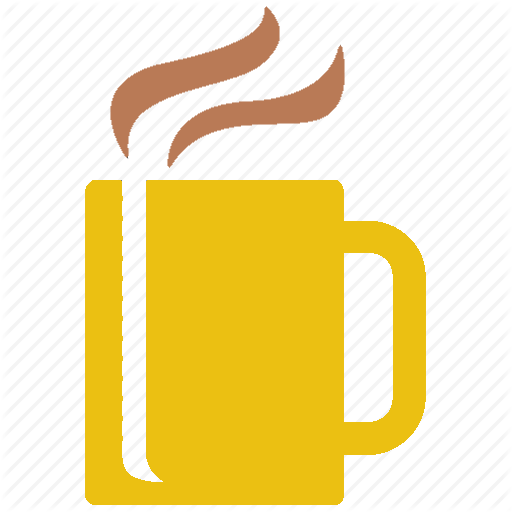
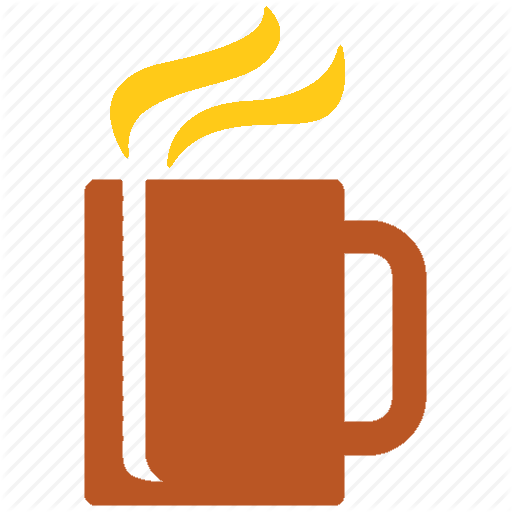
updateovane boje i font

diff --git a/index.html b/index.html
@@ -39,12 +39,12 @@
     <span></span>
     <!-- menu items -->
     <ul id="menu">
-      <li><a href="index.html" class="nav-link">почетна</a></li>
-      <li><a href="#skills" class="nav-link" >понуда</a></li>
-      <li><a href="#about" class="nav-link">о нама</a></li>
-      <li><a href="#products" class="nav-link">производи</a></li>
-      <li><a href="#services" class="nav-link">погодности</a></li>
-      <li><a href="#contact" class="nav-link">контакт</a></li>
+      <li><a href="index.html" class="nav-link">Почетна</a></li>
+      <li><a href="#skills" class="nav-link" >Понуда</a></li>
+      <li><a href="#about" class="nav-link">О нама</a></li>
+      <li><a href="#products" class="nav-link">Производи</a></li>
+      <li><a href="#services" class="nav-link">Погодности</a></li>
+      <li><a href="#contact" class="nav-link">Контакт</a></li>
       <li><img src="./images/kafeterija fri logo.jpg" alt="logo"></li>
  </ul>
  </div>
@@ -54,12 +54,12 @@
       <div class="banner">
         <h2>Преко стотину укуса</h2>
         <h1>
-          специјално 
+          Специјално 
           <br />
           справљене кафе
         </h1>
         <a href="#skills" class="btn banner-btn">
-          истражите
+          Истражите
         </a>
       </div>
     </header>
@@ -73,7 +73,7 @@
         <span class="skill-icon">
           <img src="./images/soljica.png" alt="juice_logo" class="skill_logo_fix">
         </span>
-        <h4 class="skill-title">кафе</h4>
+        <h4 class="skill-title">Кафе</h4>
         <p class="skill-text skill-2">
           Наше кафе које 100% arabica, квалитетне и имају специфичан цитрусни укус, а у понуди их имамо и за понети.
         </p>
@@ -85,7 +85,7 @@
         <span class="skill-icon">
           <img src="./images/chocolate-512.png" alt="juice_logo" class="skill_logo_fix bane-filozofira">
         </span>
-        <h4 class="skill-title">топљене чоколаде</h4>
+        <h4 class="skill-title">Топљене чоколаде</h4>
         <p class="skill-text skill-2">
           У понуди имамо црну и белу чоколаду са разним укусима, а све под покровитељством JavaCoffeeSrbija.
         </p>
@@ -97,7 +97,7 @@
         <span class="skill-icon">
           <img src="./images/tea-cup.png" alt="juice_logo" class="skill_logo_fix">
         </span>
-        <h4 class="skill-title">чајеви</h4>
+        <h4 class="skill-title">Чајеви</h4>
         <p class="skill-text">
           Биљне мешавине из наше понуде чајева ће пробудити сва ваша чула, а сваки од састојака има повољан утицај на ваш организам.
         </p>
@@ -109,7 +109,7 @@
         <span class="skill-icon">
           <img src="./images/water.png" alt="juice_logo" class="skill_logo_fix">
         </span>
-        <h4 class="skill-title">сокови</h4>
+        <h4 class="skill-title">Сокови</h4>
         <p class="skill-text">
           Код нас се могу наћи још и сокови од воћа који су  без садржаја алкохола. У целој понуди издвојили би сок са Сода водом (Fri Soda).
         </p>
@@ -159,7 +159,7 @@
           <div class="section-title products-title" id="offer">
             <!-- <h3>погледајте</h3> -->
             <!-- <h2>наше производе</h2> -->
-            <h3>издвајамо из</h3>
+            <h3>Издвајамо из</h3>
             <h2>понуде</h2>
           </div>
           <!-- end of section title -->
@@ -178,7 +178,7 @@
               alt="single product"
               class="product-img"
             />
-            <h4 class="product-title">кафе</h4>
+            <h4 class="product-title">Кафе</h4>
             <!-- <h4 class="product-price">60 РСД</h4> -->
           </div>
           <!-- end of single product -->
@@ -189,7 +189,7 @@
               alt="single product"
               class="product-img"
             />
-            <h4 class="product-title">еспресо</h4>
+            <h4 class="product-title">Еспресо</h4>
             <!-- <h4 class="product-price">100 РСД</h4> -->
           </div>
           <!-- end of single product -->
@@ -200,28 +200,28 @@
               alt="single product"
               class="product-img"
             />
-            <h4 class="product-title">чајеви</h4>
+            <h4 class="product-title">Чајеви</h4>
             <!-- <h4 class="product-price">120 РСД</h4> -->
           </div>
           <!-- end of single product -->
            <!-- single product -->
            <div class="product">
              <img src="./images/products/img (2).jpg" alt="single product" class="product-img" />
-             <h4 class="product-title">сокови</h4>
+             <h4 class="product-title">Сокови</h4>
              <!-- <h4 class="product-price">120 РСД</h4> -->
              </div>
              <!-- end of single product -->
             <!-- single product -->
             <div class="product">
               <img src="./images/products/img (3).jpg" alt="single product" class="product-img" />
-              <h4 class="product-title">топљене чоколаде</h4>
+              <h4 class="product-title">Топљене чоколаде</h4>
               <!-- <h4 class="product-price">120 РСД</h4> -->
             </div>
             <!-- end of single product -->
             <!-- single product -->
             <div class="product">
               <img src="./images/products/img (4).jpg" alt="single product" class="product-img" />
-              <h4 class="product-title">крафт пива</h4>
+              <h4 class="product-title">Крафт пива</h4>
               <!-- <h4 class="product-price">120 РСД</h4> -->
             </div>
             <!-- end of single product -->
@@ -233,7 +233,7 @@
     <section class="services" id="services">
       <!-- section title -->
       <div class="section-title services-title">
-        <h3>наше</h3>
+        <h3>Наше</h3>
         <h2>погодности</h2>
       </div>
       <!-- end of section title -->
@@ -346,10 +346,10 @@
               <span class="contact-icon">
                 <i class="fas fa-location-arrow"></i>
               </span>
-              адреса
+              Адреса
             </h4>
             <h4 class="contact-text">
-              дечанска 21 <br />
+              Дечанска 21 <br />
               Ужице, Србија 31000
             </h4>
           </div>
@@ -359,7 +359,7 @@
               <span class="contact-icon">
                 <i class="fas fa-envelope"></i>
               </span>
-              имејл
+              Имејл
             </h4>
             <h4 class="contact-text">
               email@email.com
@@ -391,7 +391,7 @@
         
         <!-- contact form -->
         <article class="contact-form">
-          <h3>пишите нам</h3>
+          <h3>Пишите нам</h3>
           <form>
             <div class="form-group">
               <!-- inputs -->
@@ -415,7 +415,7 @@
               ></textarea>
             </div>
             <!-- button -->
-            <button type="submit" class="submit-btn btn">пошаљи</button>
+            <button type="submit" class="submit-btn btn">Пошаљи</button>
           </form>
         </article>
       </div>
@@ -441,7 +441,7 @@
         <h4 class="footer-text">
           &copy;<span id="date"></span>
           <div class="company">Кафетерија Фри</div>
-          <div class="company1">сва права задржана</div>
+          <div class="company1">Сва права задржана</div>
         </h4>
       </div>
     </footer>
@@ -523,7 +523,7 @@
       </div>
       <div class="modal-footer">
         <button type="button" class="btn btn-secondary" data-dismiss="modal">
-          zatvori
+          Зatvori
         </button>
       </div>
     </div>
@@ -595,7 +595,7 @@
       </div>
       <div class="modal-footer">
         <button type="button" class="btn btn-secondary" data-dismiss="modal">
-          zatvori
+          Зatvori
         </button>
       </div>
     </div>
@@ -691,7 +691,7 @@
           </div>
           <div class="modal-footer">
             <button type="button" class="btn btn-secondary" data-dismiss="modal">
-              zatvori
+              Зatvori
             </button>
           </div>
         </div>
@@ -733,7 +733,7 @@
           </div>
           <div class="modal-footer">
             <button type="button" class="btn btn-secondary" data-dismiss="modal">
-              zatvori
+              Зatvori
             </button>
           </div>
         </div>

diff --git a/css/styles.css b/css/styles.css
@@ -3,7 +3,9 @@
 FONTS 
 ===============
 */
-@import url("https://fonts.googleapis.com/css?family=Catamaran:400,700|Marck+Script");
+@import url("https://fonts.googleapis.com/css?family=Balsamiq+Sans:400,700|Balsamiq+Sans");
+@import url("https://fonts.googleapis.com/css?family=Pacifico:400,700|Pacifico");
+@import url("https://fonts.googleapis.com/css?family=Forum:400,700|Forum");
 
 /* 
 ================
@@ -11,15 +13,15 @@ Variables
 ================
 */
 :root {
-  --clr-primary: #ebc012;
+  --clr-primary: #ba5624;
   --clr-primary-dark: #3a4d06;
   --clr-grey-1: #102a42;
   --clr-grey-5: #797676;
   --clr-grey-10: #f1f5f8;
   --clr-white: #fff;
   --clr-black: black;
-  --ff-primary: "Catamaran", sans-serif;
-  --ff-secondary: "Marck Script", cursive;
+  --ff-primary: "Forum", sans-serif;
+  --ff-secondary: "Pacifico", cursive;
   --transition: all 0.3s linear;
   --spacing: 0.25rem;
   --radius: 0.5rem;
@@ -51,7 +53,7 @@ h2,
 h3,
 h4 {
   letter-spacing: var(--spacing);
-  text-transform: capitalize;
+  /* text-transform: capitalize; */
   line-height: 1.25;
   margin-bottom: 0.75rem;
 }
